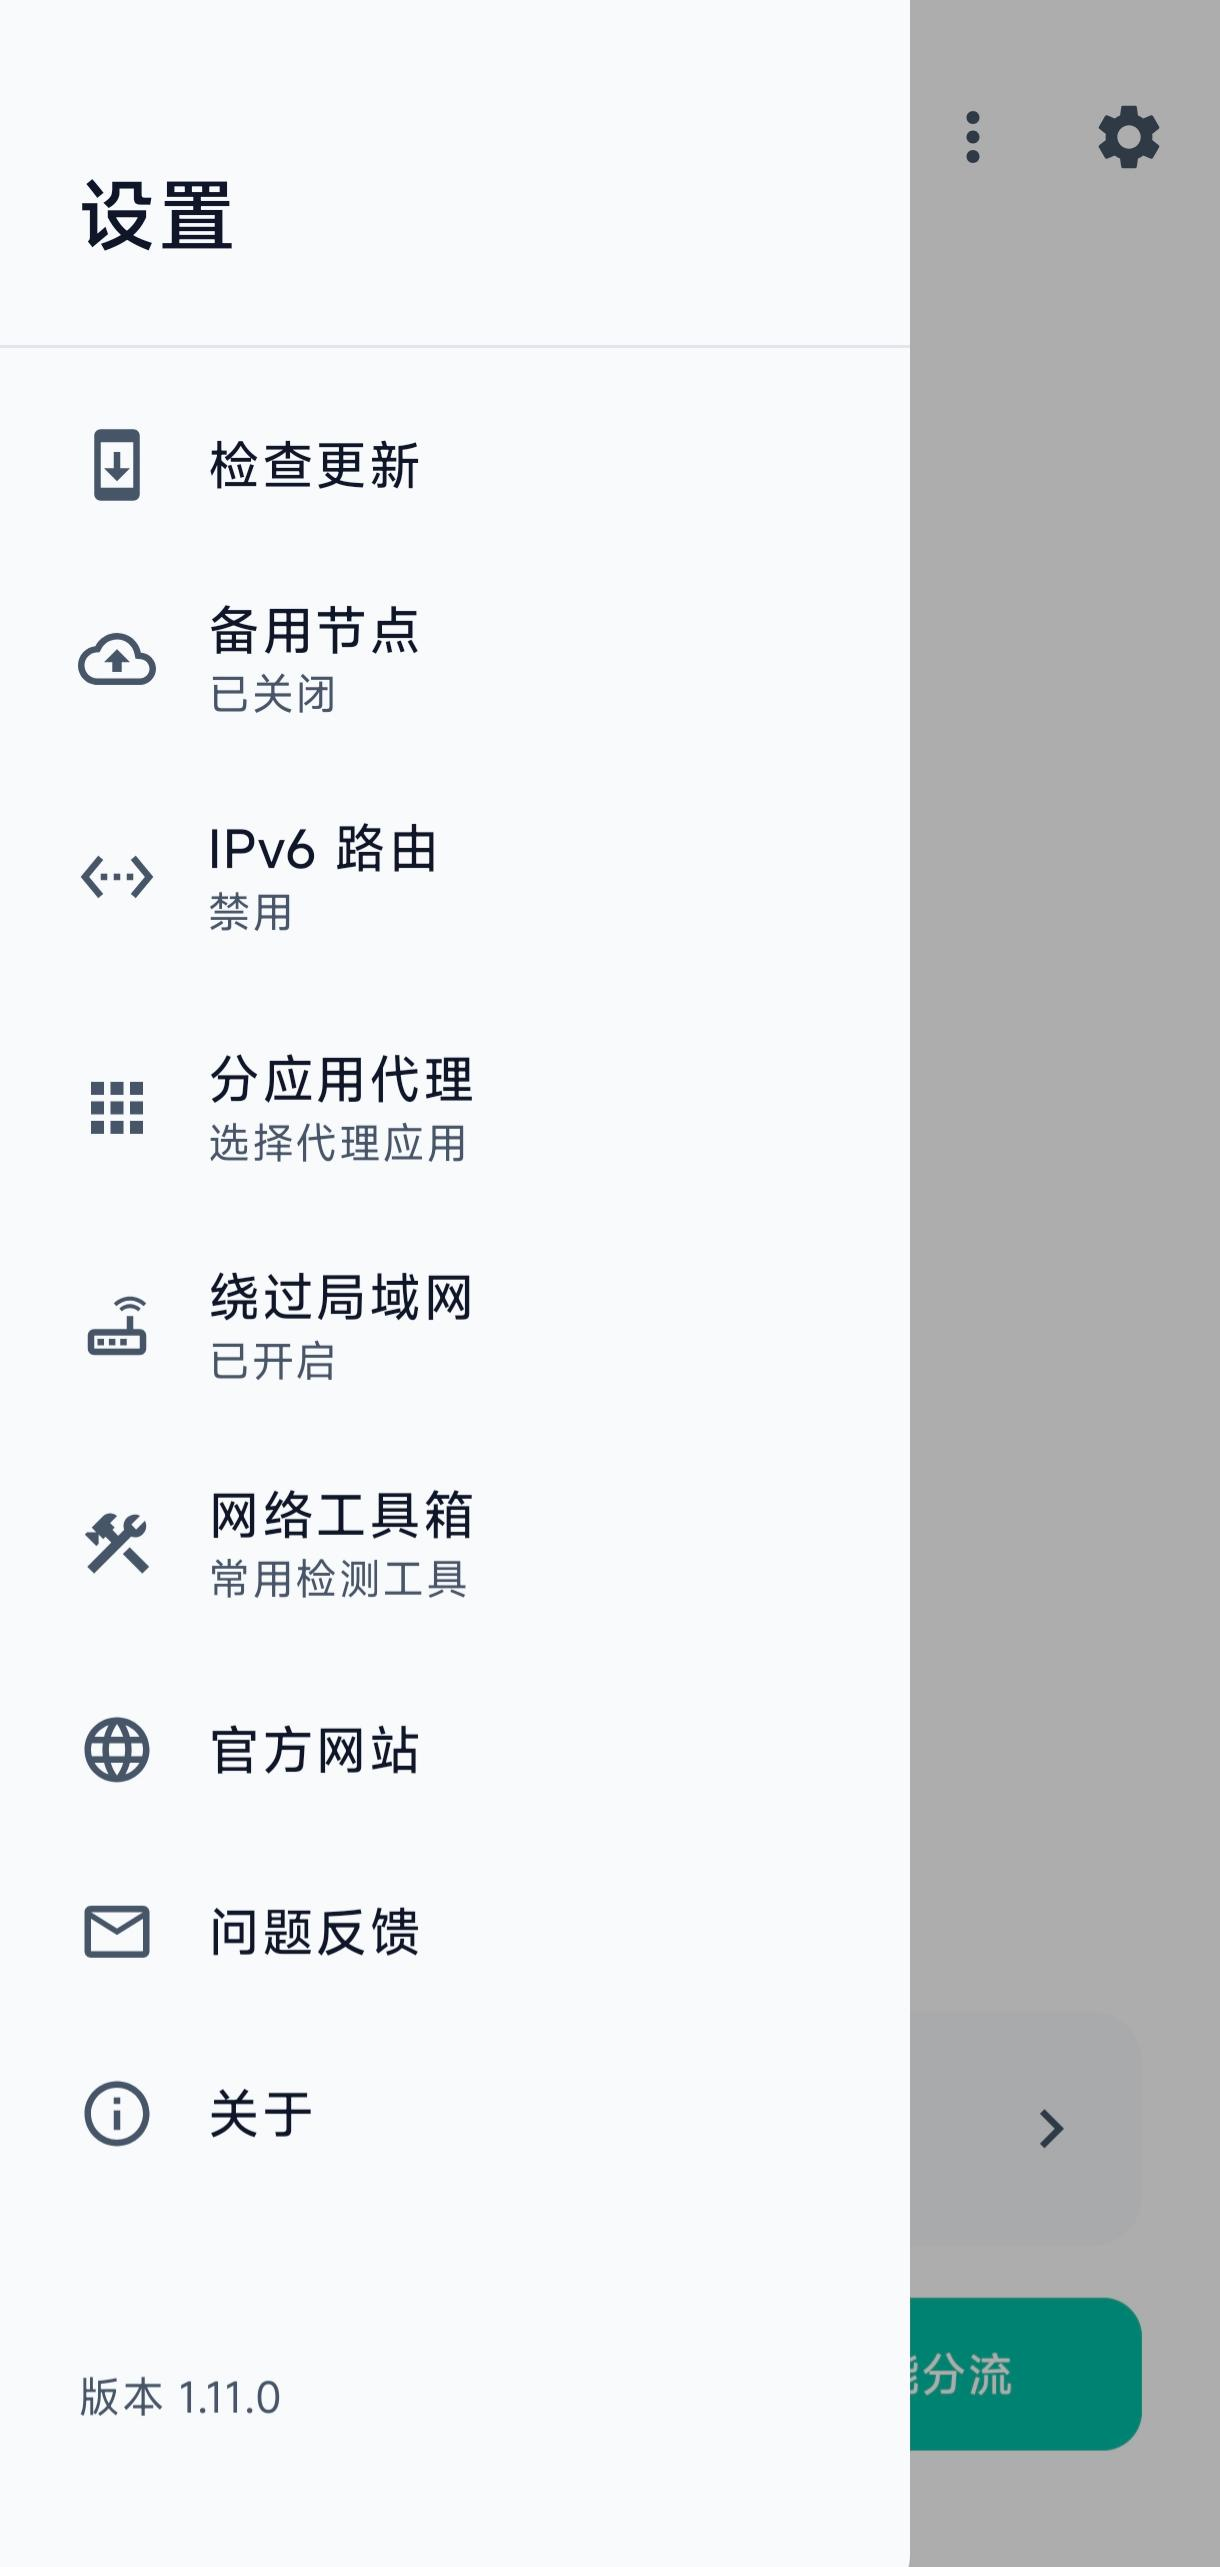
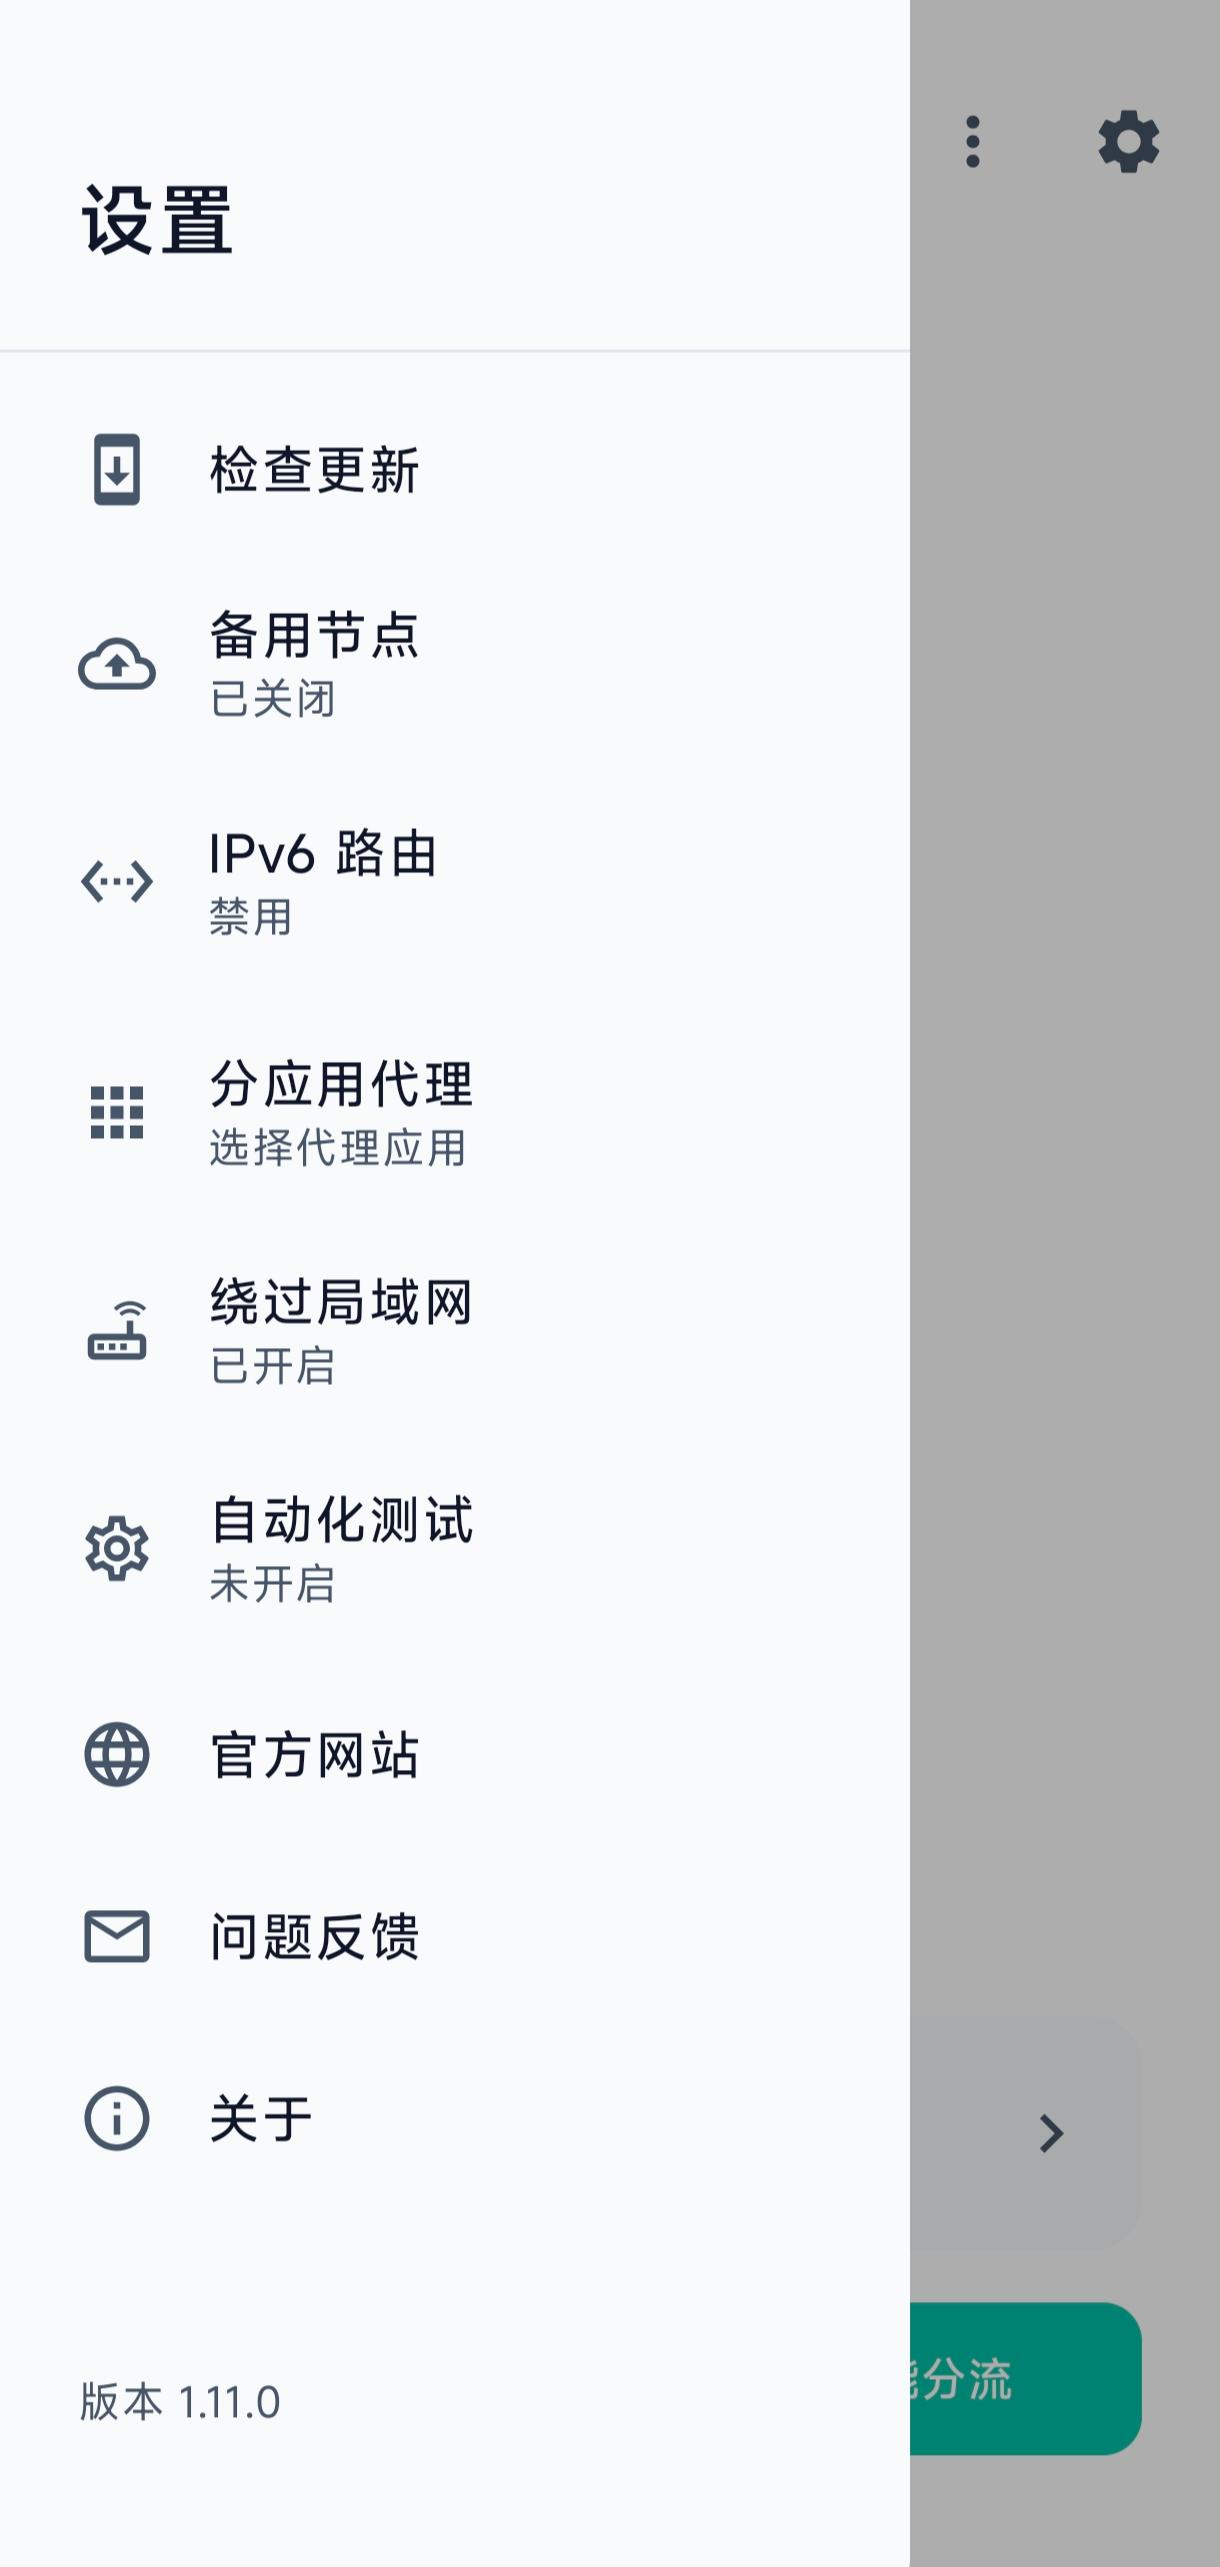
流萤加速器

diff --git a/index.html b/index.html
@@ -169,6 +169,26 @@
           </article>
 
           <article class="card">
+            <h3>网速测试</h3>
+            <p>集成 Cloudflare Speed Test，支持下载/上传测速，实时显示速率。</p>
+          </article>
+
+          <article class="card">
+            <h3>网络工具箱</h3>
+            <p>内置常用网络检测工具（出口检测、IP查询、WebRTC/DNS泄漏等），一键跳转浏览器使用。</p>
+          </article>
+
+          <article class="card">
+            <h3>流媒体解锁测试</h3>
+            <p>集成 UnlockTests，可逐节点测试国外主流网站解锁情况并展示可滚动结果明细。</p>
+          </article>
+
+          <article class="card">
+            <h3>自动化测试流程</h3>
+            <p>支持配置后自动执行“拉节点 → URL Test → 延迟筛选 → 带宽测试 → 带宽筛选 → 解锁测试”。</p>
+          </article>
+
+          <article class="card">
             <h3>备用订阅</h3>
             <p>主订阅不可用时快速切换备用源，带回退机制与本地缓存。</p>
           </article>
@@ -198,10 +218,13 @@
 
         <div class="shots">
           <figure class="shot">
-            <img src="./images/2.jpg" alt="设置" loading="lazy" />
+            <img src="./images/2.jpg" alt="主界面" loading="lazy" />
           </figure>
           <figure class="shot">
             <img src="./images/3.jpg" alt="节点列表" loading="lazy" />
+          </figure>
+          <figure class="shot">
+            <img src="./images/4.jpg" alt="设置" loading="lazy" />
           </figure>
         </div>
       </div>
@@ -329,14 +352,37 @@
 
         <div class="faq">
           <details>
-            <summary>编写rule_set相关功能代码时运行报错 "unknown field rule_set" 怎么办？</summary>
-            <p>当前项目自带的 libbox.aar 在编译时不支持 <code>rule_set</code>，项目用硬编码 <code>domain_suffix</code> 规则代替，如有需求建议自行编译最新版的
-              libbox.aar。</p>
+            <summary>URL Test 全部显示超时？</summary>
+            <p>1. 确认 <code>network_security_config.xml</code> 中包含
+              <code><domain includeSubdomains="true">127.0.0.1</domain></code> 的明文放行配置。
+            </p>
+            <p>2. URL Test 需要网络连接，确保 WiFi 或移动数据正常。</p>
+            <p>3. 检查 Logcat 中 <code>SingBoxCoreLog</code> 标签的日志，排查 sing-box 核心错误。</p>
           </details>
 
           <details>
-            <summary>节点无法连接 / NAME_NOT_RESOLVED？</summary>
-            <p>可能是节点本身的问题，还有就是域名类节点需要本地 DNS 解析；建议更新到最新版本并检查 DNS/网络环境。</p>
+            <summary>为什么开启自动化测试后，启动时没有先跑默认 URL Test？</summary>
+            <p>这是预期行为。启用自动化测试后，启动会直接进入“自动化流程”（其中包含 URL Test 阶段），避免重复测试。</p>
+          </details>
+
+          <details>
+            <summary>流媒体解锁测试使用什么组件？</summary>
+            <p>使用 <a href="https://github.com/oneclickvirt/UnlockTests"><code>oneclickvirt/UnlockTests</code></a>
+              编译的Android 二进制，通过本地SOCKS 代理逐节点测试。</p>
+          </details>
+
+          <details>
+            <summary>如何添加新的代理协议？</summary>
+            <p>1. 在 <code>NodeType.kt</code>添加新枚举值。</p>
+            <p>2. 在 <code>SubscriptionParser.kt</code> 添加解析逻辑。</p>
+            <p>3. 在 <code>SingBoxConfigGenerator.kt</code> 添加 outbound 生成逻辑。</p>
+          </details>
+
+          <details>
+            <summary>如何添加新的网络工具？</summary>
+            <p>编辑<code>AppConfig.kt</code> 中的 <code>NETWORK_TOOLS_JSON</code>，按格式添加新条目。如需自定义图标，同时修改
+              <code>NetworkToolboxDialog.kt</code> 中的 <code>getToolIcon() </code>函数。
+            </p>
           </details>
 
           <details>
@@ -403,7 +449,9 @@
         <p class="disclaimer-text">
           免责声明：本项目为个人开源作品，与米哈游 (HoYoverse) 无关。本项目不盈利、不接受捐赠。<br>
           所有涉及的游戏角色名称及设计版权归米哈游所有。<br>
-          <small>Disclaimers: This project is my open-source creation and is NOT related to miHoYo (HoYoverse). This project is non-profit and not for sale. All game character names and design copyrights belong to miHoYo.</small>
+          <small>Disclaimers: This project is my open-source creation and is NOT related to miHoYo (HoYoverse). This
+            project is non-profit and not for sale. All game character names and design copyrights belong to
+            miHoYo.</small>
         </p>
       </div>
       <div class="footer-links">
@@ -415,8 +463,9 @@
   </footer>
 
   <button id="backToTop" class="back-to-top" aria-label="回到顶部">
-    <svg viewBox="0 0 24 24" fill="none" stroke="currentColor" stroke-width="2.5" stroke-linecap="round" stroke-linejoin="round">
-      <path d="M18 15l-6-6-6 6"/>
+    <svg viewBox="0 0 24 24" fill="none" stroke="currentColor" stroke-width="2.5" stroke-linecap="round"
+      stroke-linejoin="round">
+      <path d="M18 15l-6-6-6 6" />
     </svg>
   </button>
 

diff --git a/assets/style.css b/assets/style.css
@@ -372,7 +372,7 @@ h2 {
 
 .shots {
   display: grid;
-  grid-template-columns: repeat(2, minmax(0, 1fr));
+  grid-template-columns: repeat(3, minmax(0, 1fr));
   gap: 14px;
 }
 
